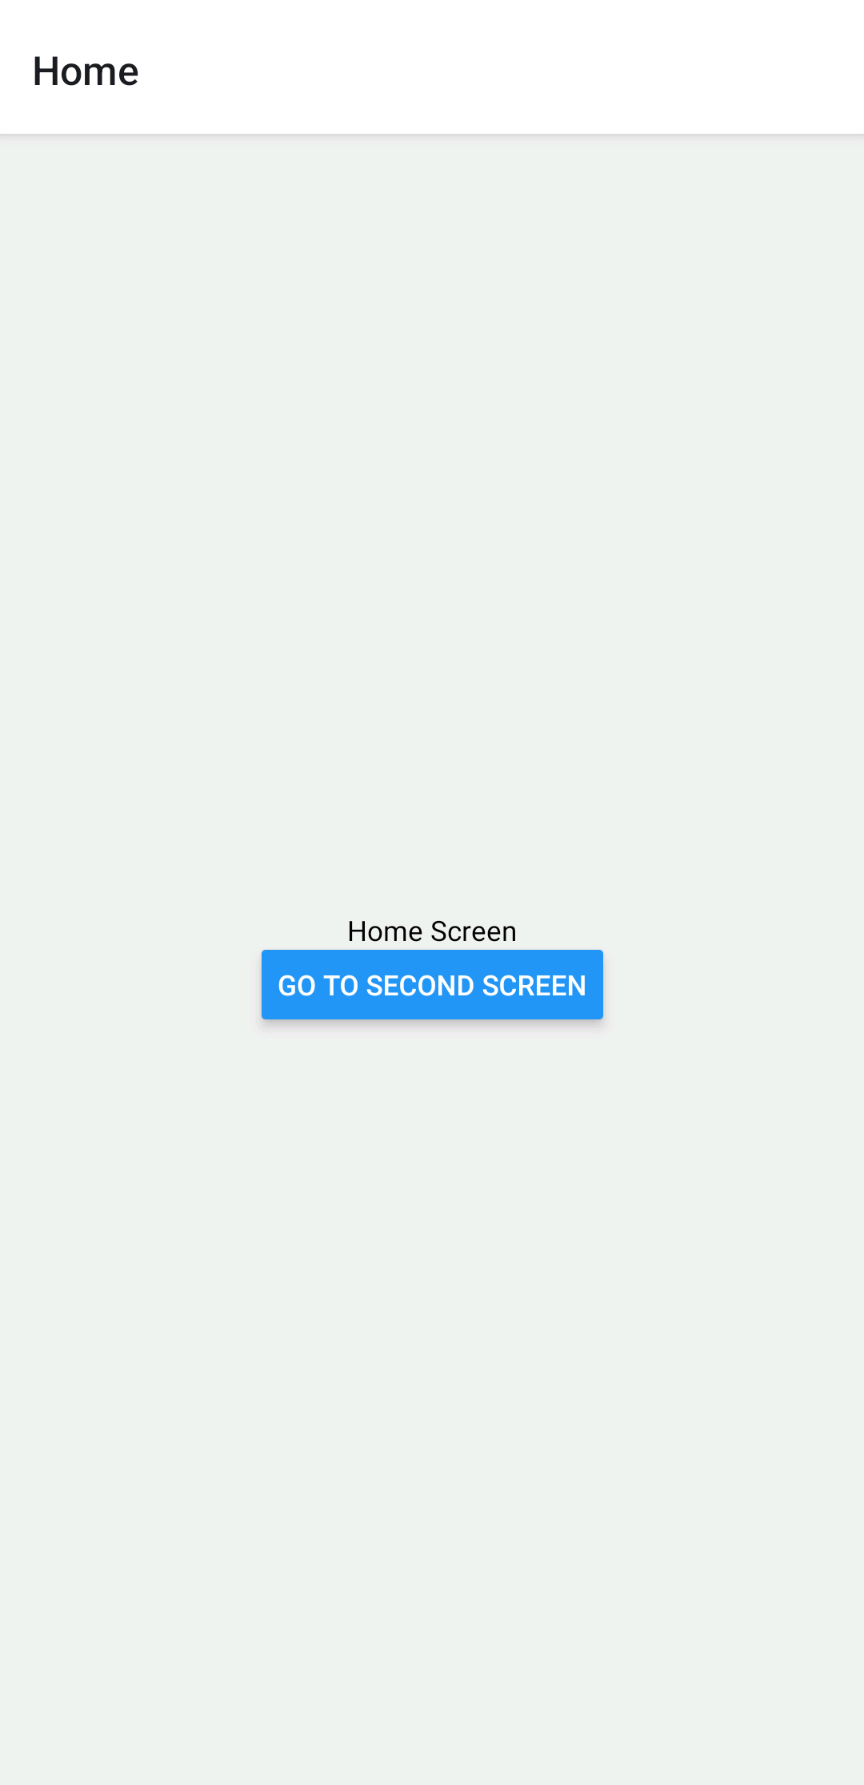
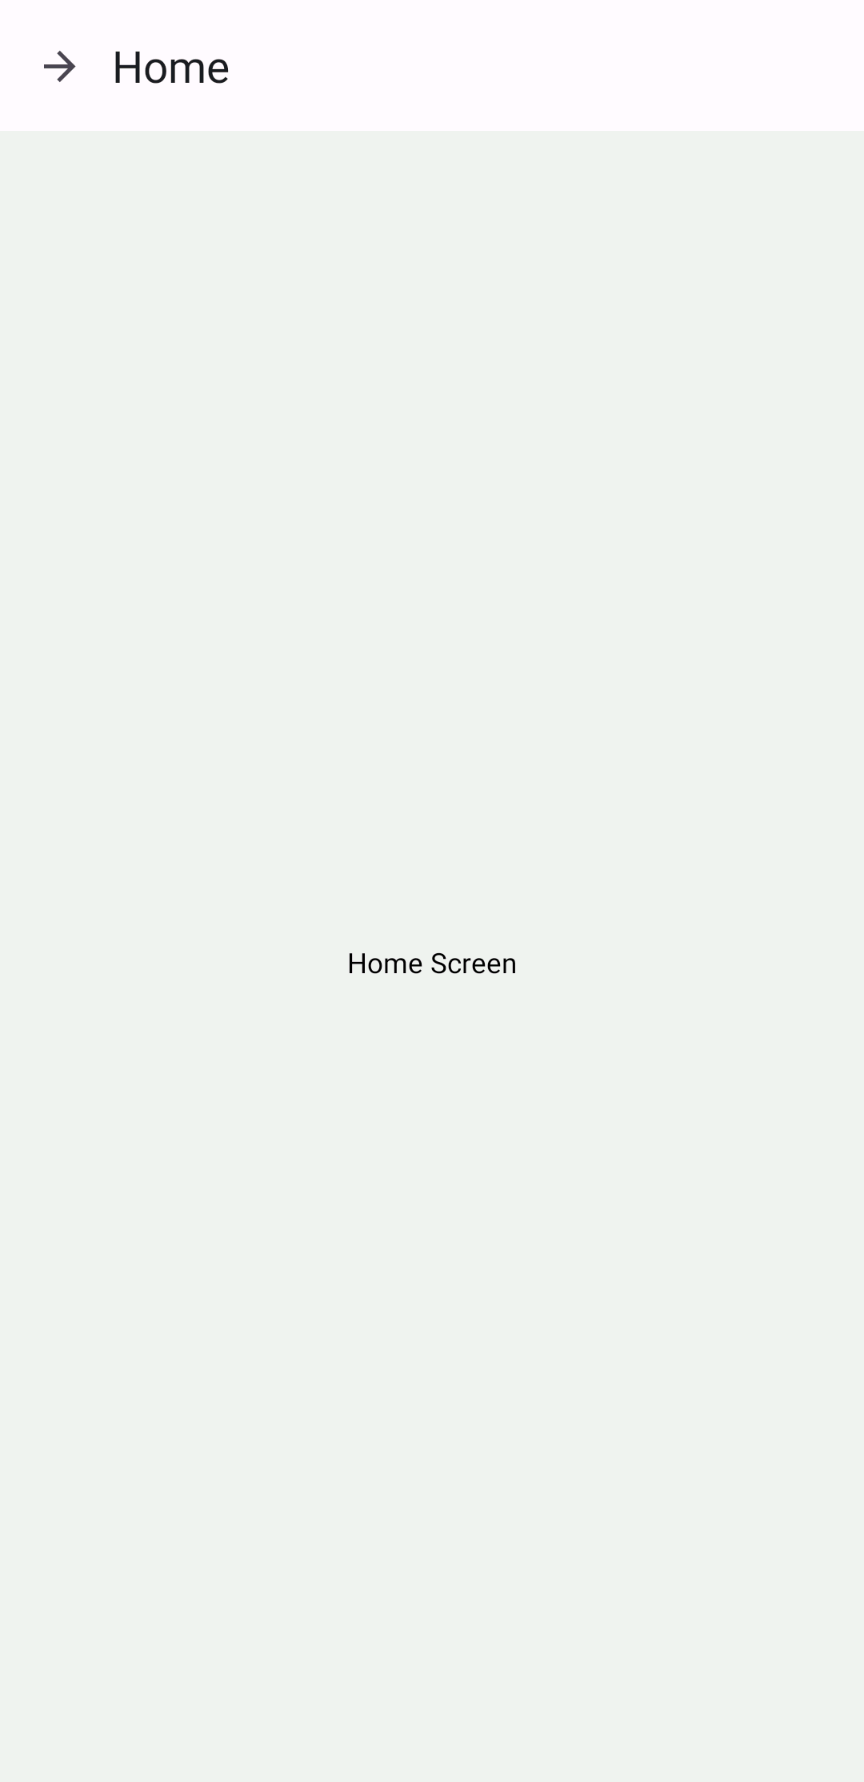
Custom appbar + readme update

Changed region(s): [[0.2812, 0.4938, 0.7188, 0.5864], [0.0312, 0.0309, 0.2812, 0.0617]]

diff --git a/vko3/components/AppBar.js b/vko3/components/AppBar.js
@@ -1,17 +1,21 @@
-import HomeScreen from '../screens/HomeScreen';
-import SecondScreen from '../screens/SecondScreen';
+import React from 'react';
+import { Appbar } from 'react-native-paper';
 
-export default function App() {
+function AppBar({ navigation, back, options, route }) {
   return (
-    <NavigationContainer>
-      <Stack.Navigator
-        initialRouteName="Home"
-        screenOptions={{
-          header: (props) => <CustomNavigationBar {...props} />,
-        }}>
-        <Stack.Screen name="Home" component={HomeScreen} />
-        <Stack.Screen name="Second" component={SecondScreen} />
-      </Stack.Navigator>
-    </NavigationContainer>
+    <Appbar.Header>
+      {back ? (
+        <Appbar.BackAction onPress={navigation.goBack} />
+      ) : (
+        route.name === 'Home' && (
+          <Appbar.Action
+            icon="arrow-right"
+            onPress={() => navigation.navigate('Second')}/>
+        )
+      )}
+      <Appbar.Content title={options.title} />
+    </Appbar.Header>
   );
 }
+
+export default AppBar;

diff --git a/vko3/App.js b/vko3/App.js
@@ -5,6 +5,7 @@ import { createStackNavigator } from '@react-navigation/stack';
 import { PaperProvider } from 'react-native-paper';
 import HomeScreen from './screens/HomeScreen';
 import SecondScreen from './screens/SecondScreen';
+import AppBar from './components/AppBar';
 
 const Stack = createStackNavigator();
 
@@ -12,9 +13,11 @@ export default function App() {
   return (
     <PaperProvider>
       <NavigationContainer>
-        <Stack.Navigator initialRouteName="Home">
-          <Stack.Screen name="Home" component={HomeScreen} />
-          <Stack.Screen name="Second" component={SecondScreen} />
+        <Stack.Navigator
+          initialRouteName="Home"
+          screenOptions={{header: (props) => <AppBar {...props} />, }}>
+          <Stack.Screen name="Home" component={HomeScreen} options={{ title: 'Home' }}/>
+          <Stack.Screen name="Second" component={SecondScreen} options={{ title: 'Second' }}/>
         </Stack.Navigator>
       </NavigationContainer>
     </PaperProvider>

diff --git a/vko3/screens/HomeScreen.js b/vko3/screens/HomeScreen.js
@@ -1,14 +1,10 @@
 import React from 'react';
-import { View, Text, Button, StyleSheet } from 'react-native';
+import { View, Text, StyleSheet } from 'react-native';
 
-function HomeScreen({ navigation }) {
+function HomeScreen() {
   return (
     <View style={style.container}>
       <Text>Home Screen</Text>
-      <Button
-        title="Go to second screen"
-        onPress={() => navigation.navigate('Second')}
-      />
     </View>
   );
 }
